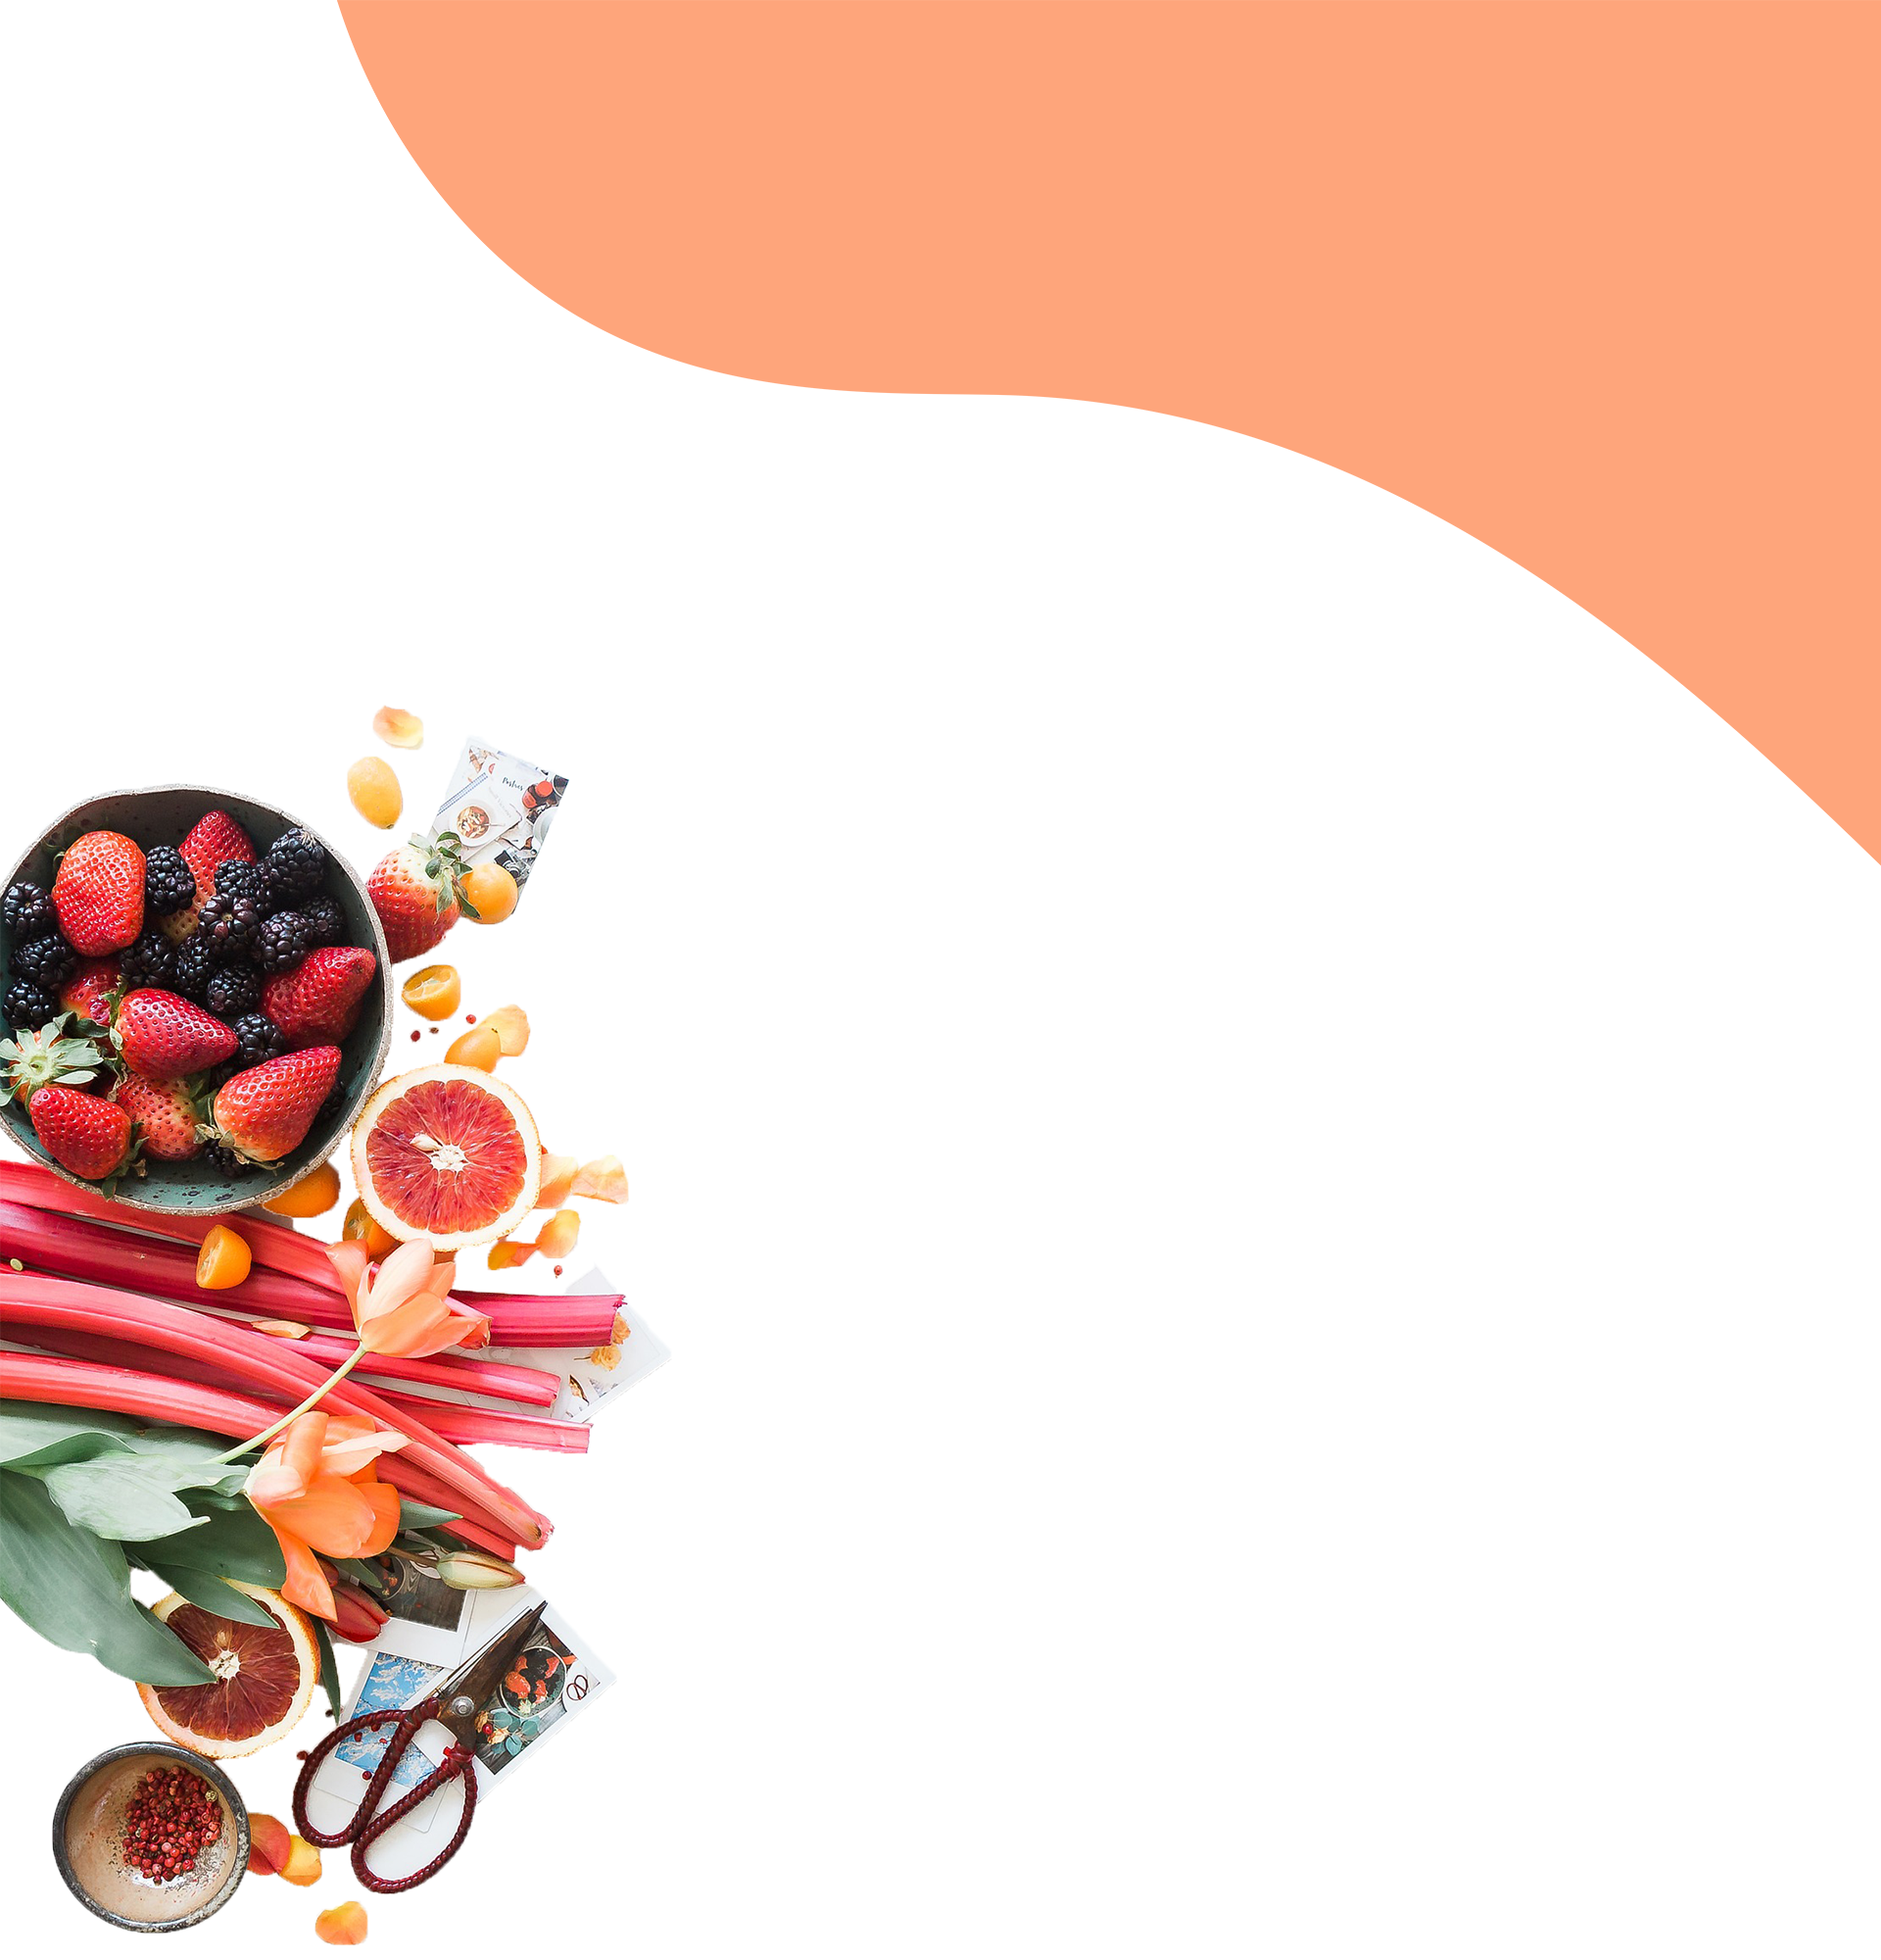
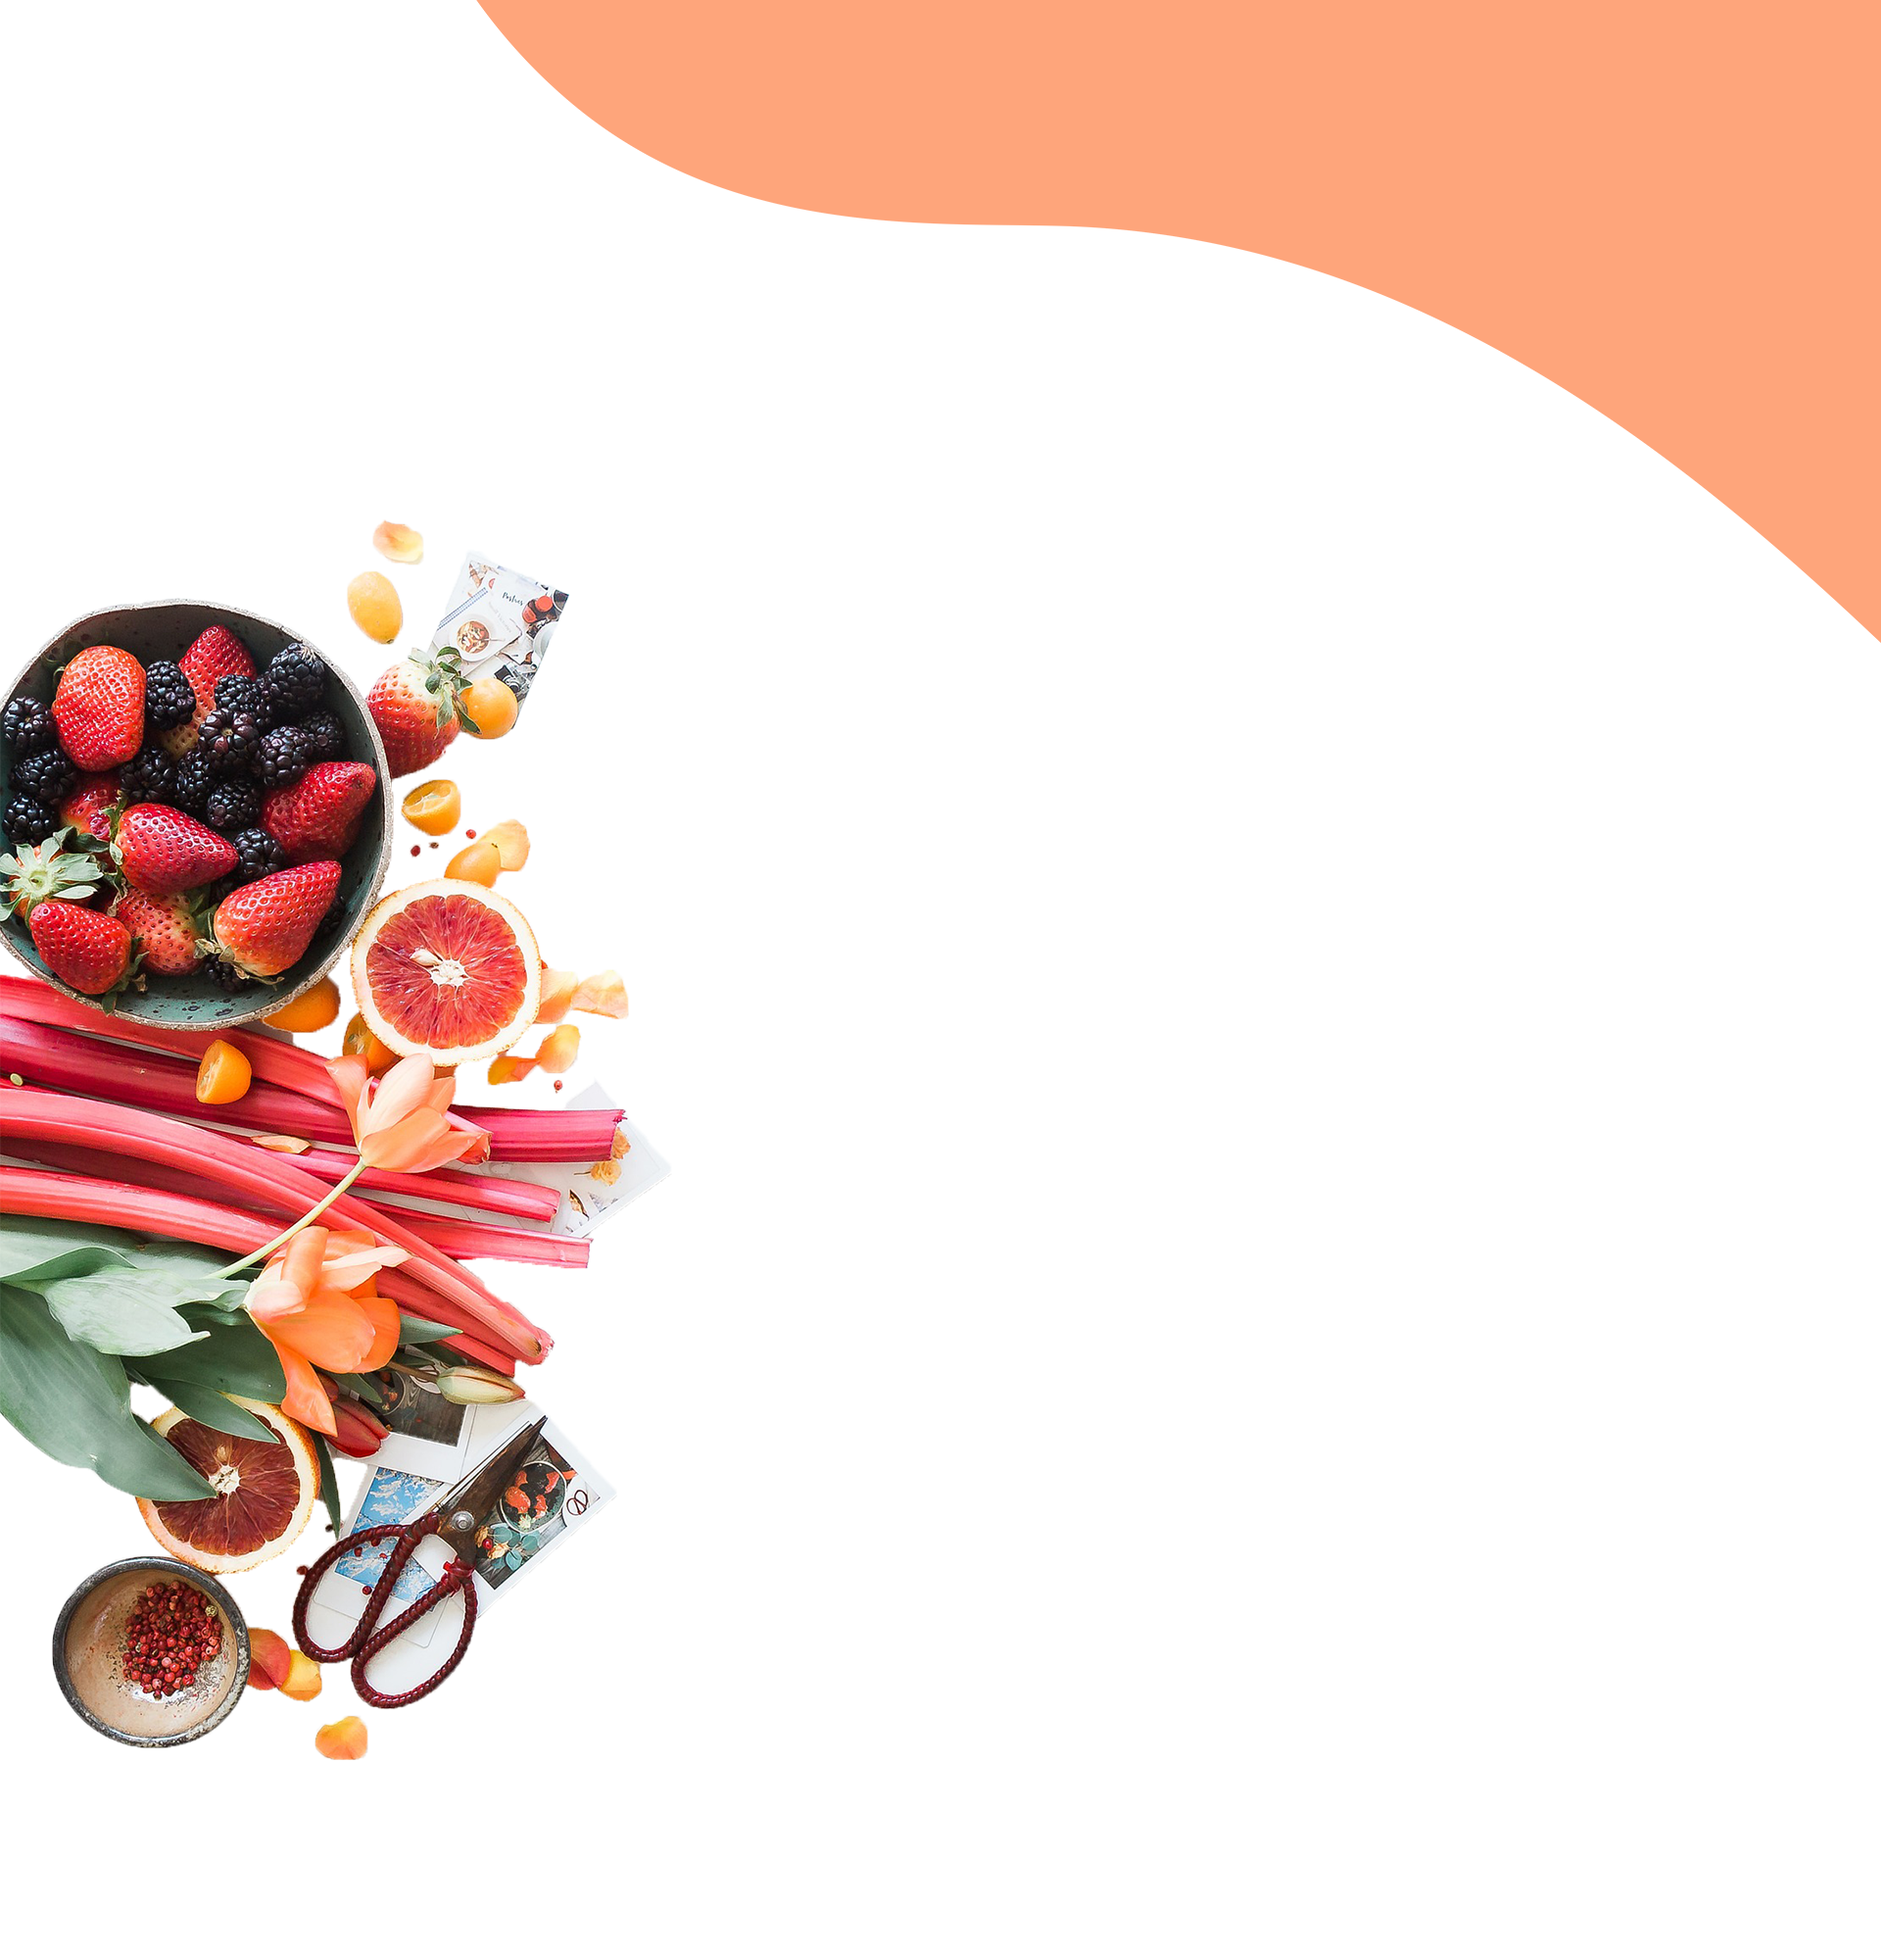
cours v3

Changed region(s): [[0.0, 0.248, 0.3438, 0.992], [0.1562, 0.0, 1.0, 0.434]]

diff --git a/public/css/app.css b/public/css/app.css
@@ -46,9 +46,16 @@ header .container .navbar ul li a {
 }
 
 #jumbotron {
-  padding: 600px 0;
+  min-height: 100em;
   background-repeat: no-repeat;
   background-size: cover;
-  background-position: center center;
+  background-position: center;
+}
+#jumbotron .container {
+  padding: 16em 0;
+  text-align: center;
+}
+#jumbotron .container h1 {
+  font-size: 60px;
 }
 /*# sourceMappingURL=app.css.map */

diff --git a/ressources/sass/pages/_cours.scss b/ressources/sass/pages/_cours.scss
@@ -1,6 +1,18 @@
 #jumbotron{
-  padding: 600px 0;
+  min-height: 100em;
   background-repeat: no-repeat;
   background-size: cover;
-  background-position: center center;
+  background-position: center;
+
+  .container {
+    padding: 16em 0;
+    text-align: center;
+
+    h1 {
+      font-size: 60px;
+    }
+
+    button {
+    }
+  }
 }
